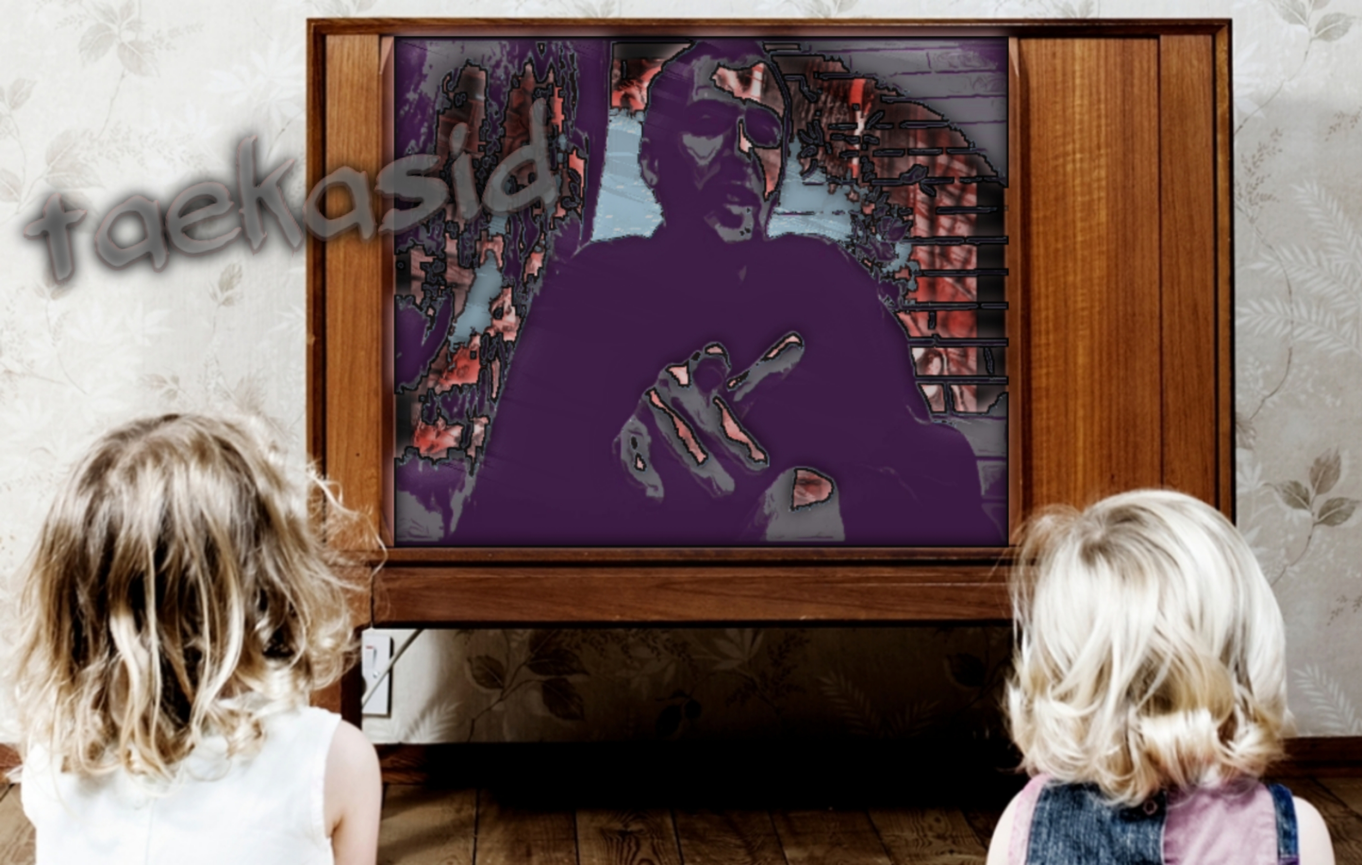
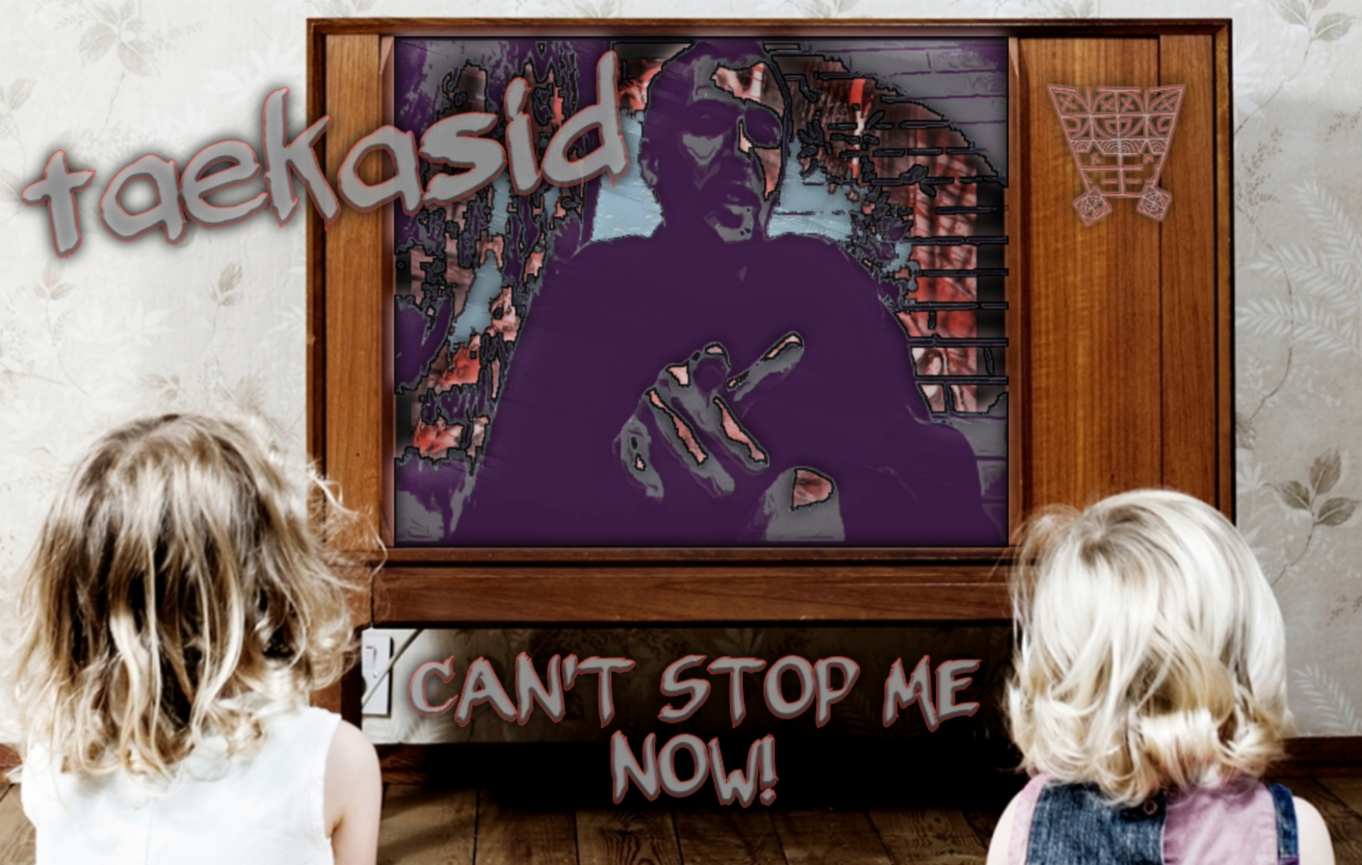
Add files via upload

Changed region(s): [[0.0, 0.0617, 0.4688, 0.3396], [0.2812, 0.741, 0.7188, 0.9571], [0.75, 0.0926, 0.875, 0.2779]]

diff --git a/index.html b/index.html
@@ -8,7 +8,7 @@
   <body>
   	
   		<img src="tktv.jpg" alt="tkD TV">
-<h4>    <i>You Can't Stop Me Now!</i></h4><hr>
+<hr>
 
 <nav><ul><li><a href="taekasid.bandcamp.com">Buy</a></li><li><a href="https://distrokid.com/hyperfollow/taekasid/hammerhead">Stream</a></li></ul><hr>
 
